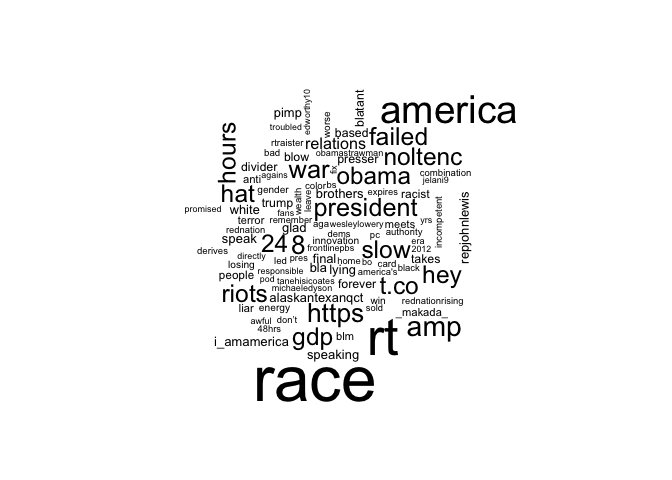
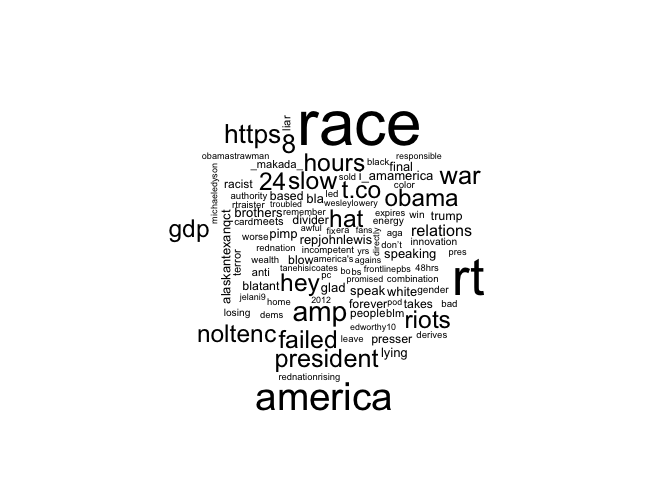
Formatting first image to use in journal article, removed most common words like "rt" and "http" by filtering. Still need custom stop word list.

Changed region(s): [[0.25, 0.1875, 0.7812, 0.875]]

diff --git a/Westley_Final_Project_VersionTracking.md b/Westley_Final_Project_VersionTracking.md
@@ -5,3 +5,5 @@ Due Sunday June 4, 2017
 
 Final Visualization(s)
 ----------------------
+
+![](Westley_Final_Project_VersionTracking_files/figure-markdown_github/unnamed-chunk-1-1.png)
